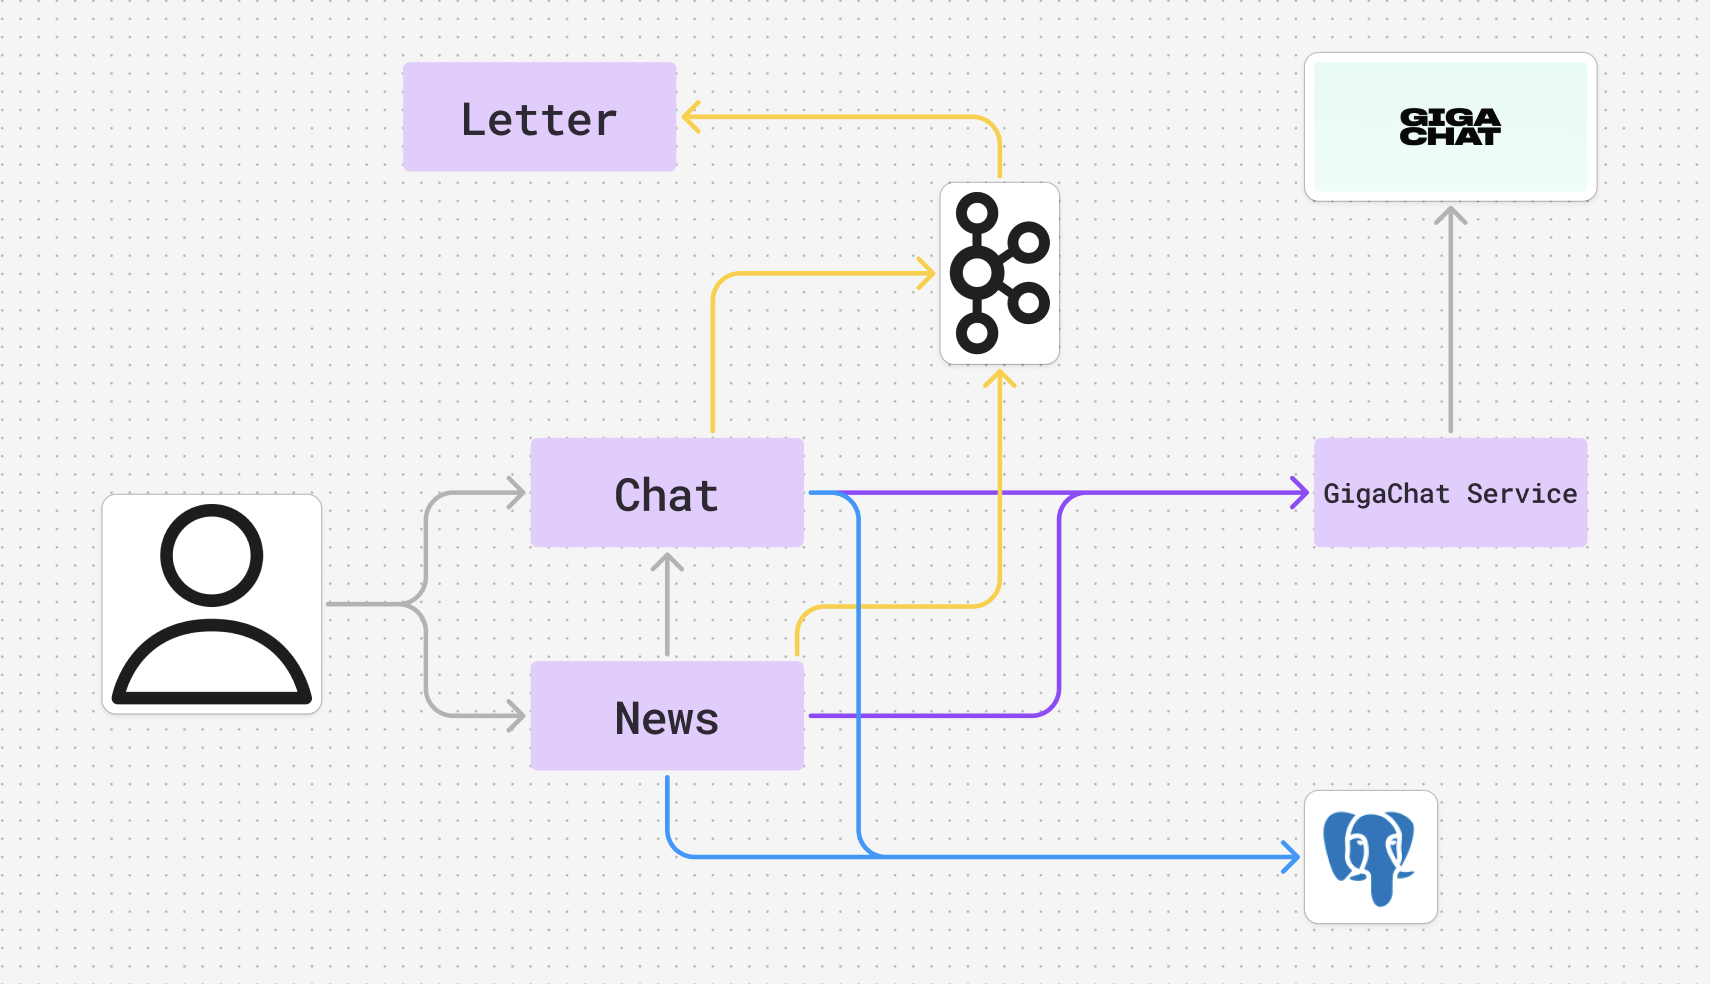
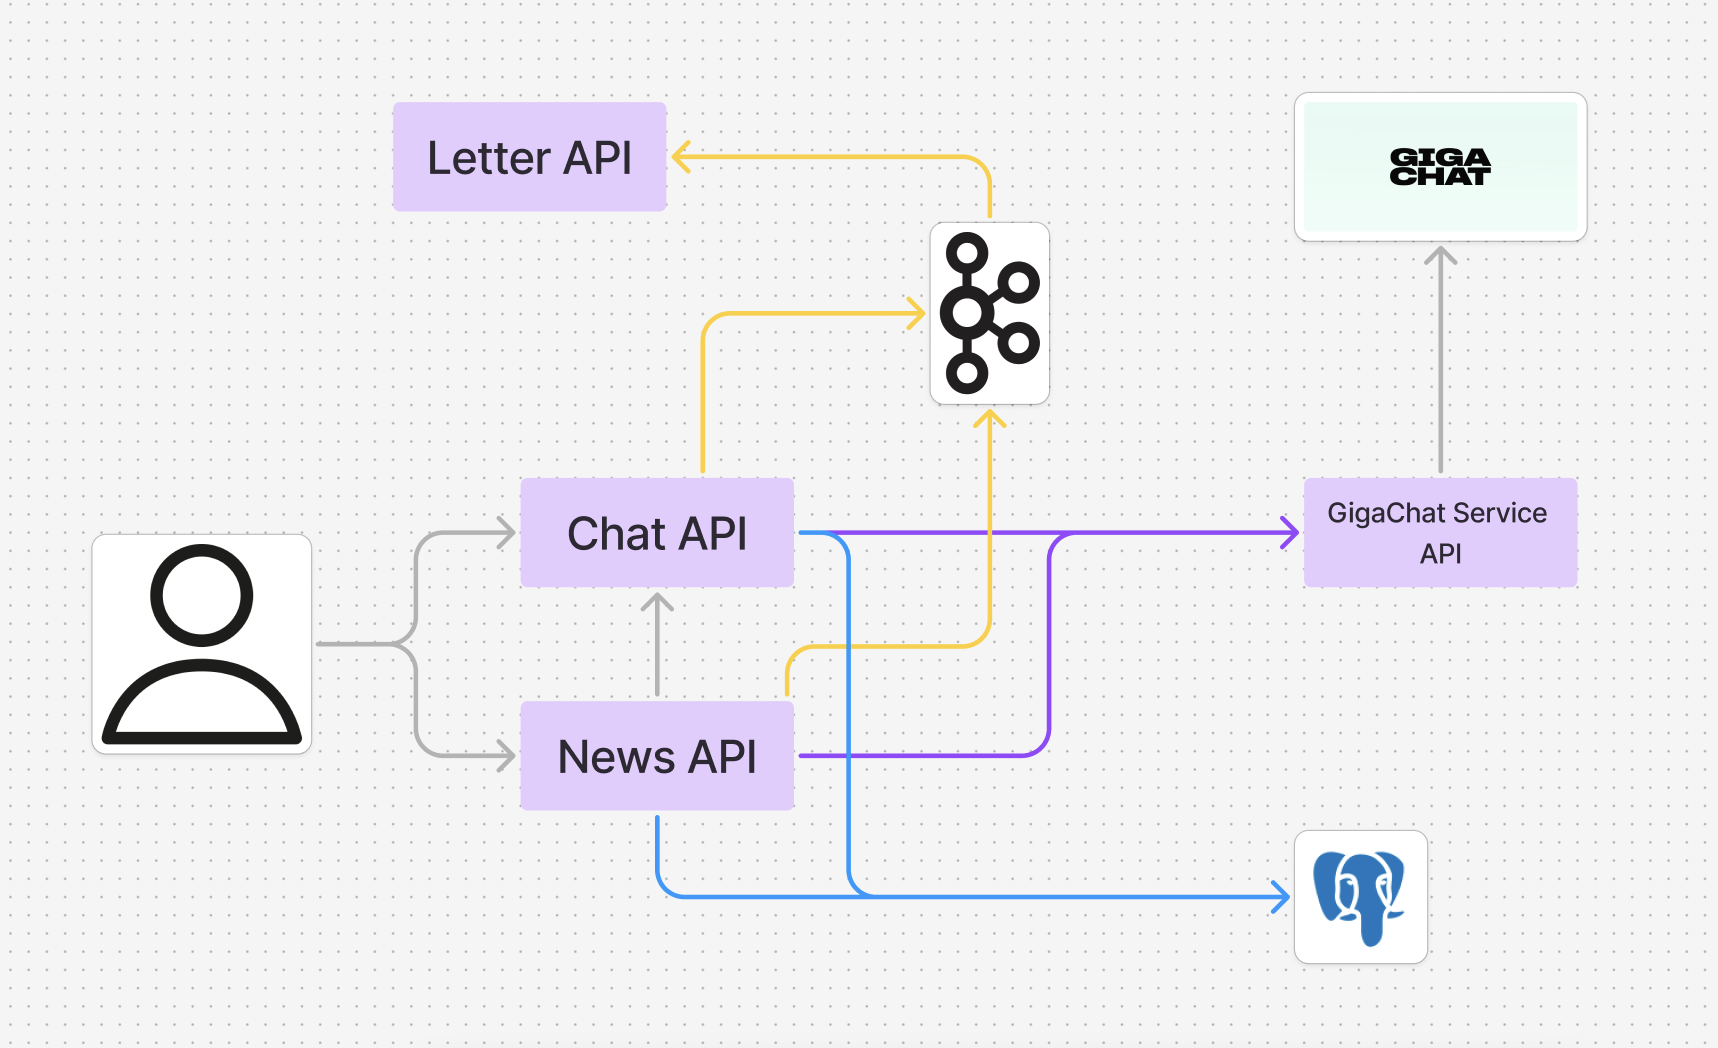
create README

Changed region(s): [[0.217, 0.061, 0.9298, 0.9451], [0.062, 0.4878, 0.186, 0.7317], [0.8058, 0.0915, 0.8988, 0.1829]]

diff --git a/README.md b/README.md
@@ -1,0 +1,68 @@
+# 💚 **Doctor AI 🏥**
+
+🌟 **Doctor AI** — это **интеллектуальный бэкенд-помощник** для выявления легких заболеваний по симптомам, указанным пользователем.  
+Проект основан на **микросервисной архитектуре** и интегрирован с **AI (GigaChat)** для анализа заболеваний.
+
+## 🌍 **Архитектура проекта**
+![Схема проекта](image.png)
+
+## 🎯 **Цель проекта**
+🔹 Создать **умного помощника**, который **анализирует симптомы** и **предлагает варианты лечения**.  
+🔹 **Упростить диагностику** и **снизить нагрузку** на медицинские учреждения.
+
+## 🚀 **Цель для разработчика**
+🟢 **Изучить** микросервисную архитектуру  
+🟢 **Освоить** Kafka для асинхронного взаимодействия сервисов  
+🟢 **Разобраться** с Spring Cloud OpenFeign  
+🟢 **Попробовать** Spring Security для защиты API  
+🟢 **Углубить навыки** работы с Maven
+
+## 🛠 **Технологический стек**
+| 🏗 Категория      | 🚀 Технология          |
+|------------------|------------------------|
+| **Язык**        | Java 21                |
+| **Фреймворк**   | Spring Boot            |
+| **Архитектура** | Микросервисная         |
+| **Сборщик**     | Maven                  |
+| **Связь сервисов** | Spring Cloud OpenFeign |
+| **Безопасность** | Spring Security        |
+| **БД**         | PostgreSQL             |
+| **ORM**        | Hibernate              |
+| **Документация** | Swagger                |
+| **Асинхронность** | Kafka                  |
+| **Контейнеризация** | Docker                 |
+| **AI**         | API GigaChat           |
+
+## 🏗 **Структура проекта**
+📌 **Сервис диагностики** – принимает симптомы и передает в GigaChat.  
+📌 **Сервис врачей** – предоставляет информацию по лечению легких заболеваний, при более серьезных заболеваниях рекомендует посетить врача.  
+📌 **Сервис новостей** – ежедневно получает актуальные мировые события через **News API** и предоставляет свежую информацию пользователям.
+## 🌟 **Функционал**
+✅ **Прием симптомов** от пользователя  
+✅ **Анализ и выявление заболевания**  
+✅ **Генерация описания** возможного диагноза с помощью **GigaChat**  
+✅ **Подбор врача** по выявленной проблеме  
+✅ **Взаимодействие сервисов** через **FeignClient**  
+✅ **Документированное API** (**Swagger**)  
+✅ **Контейнеризация** (**Docker**)  
+✅ **Защита API** с помощью **Spring Security**
+
+---
+
+## ⚡ **Запуск проекта**
+
+📌 **1. Склонировать репозиторий:**
+   ```sh
+   git clone https://github.com/ellieene/doctor-ai.git
+   ```
+📌 **2. Открыть Docker Desktop**
+
+📌 **3. Перейти в папку проекта и запустить через скрипт:**
+   ```sh
+   sh build.sh
+   ```
+
+
+---
+
+🔥 **Doctor AI — умное здоровье в твоих руках!** 🚀  
